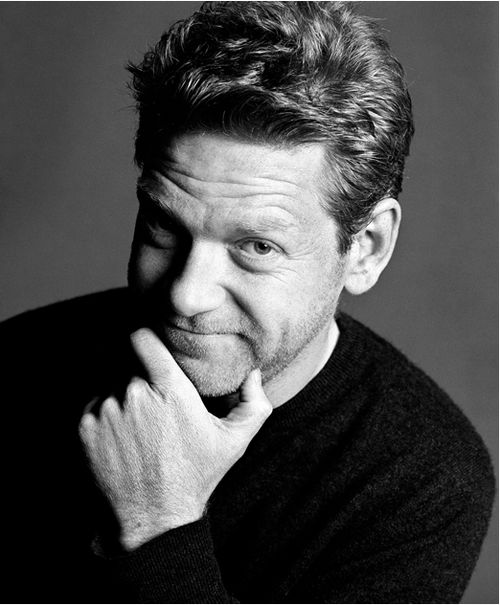
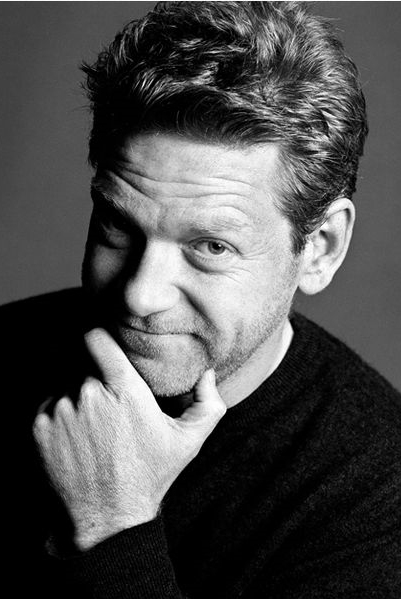
ireland resize

diff --git a/ressources/Ireland/ireland.html b/ressources/Ireland/ireland.html
@@ -40,7 +40,7 @@
             <center>
                 <B> Michael Fassbender </B>
                 </center>
-                <img id="photo" src="fassbender.png" width="133px" height="200px">
+                <img id="photo" src="fassbender.png" width="146px" height="200px">
           </div>
         </center>
         </section>

diff --git a/ressources/Northern_Ireland/northern_ireland.html b/ressources/Northern_Ireland/northern_ireland.html
@@ -41,7 +41,7 @@
             <center>
                 <B> Kenneth Branagh </B>
                 </center>
-                <img id="photo" src="branagh.png" width="155px" height="200px">
+                <img id="photo" src="branagh.png" width="133px" height="200px">
           </div>
         </center>
         </section>
